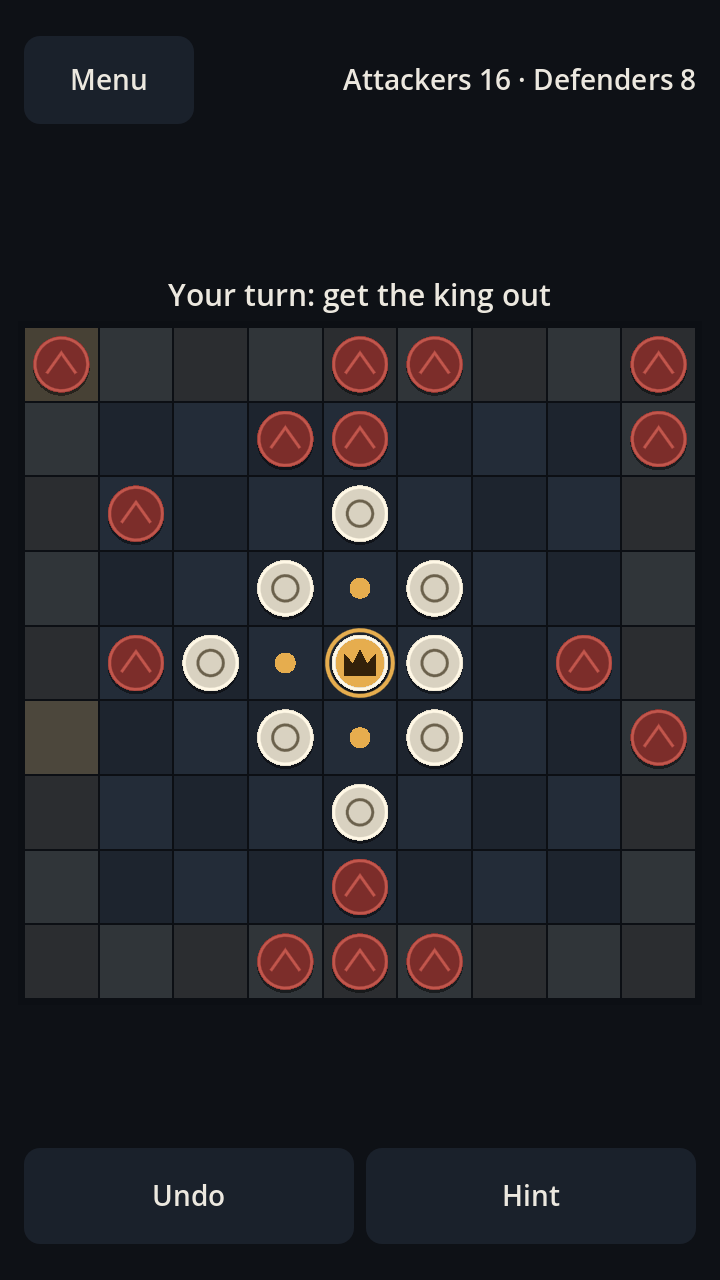
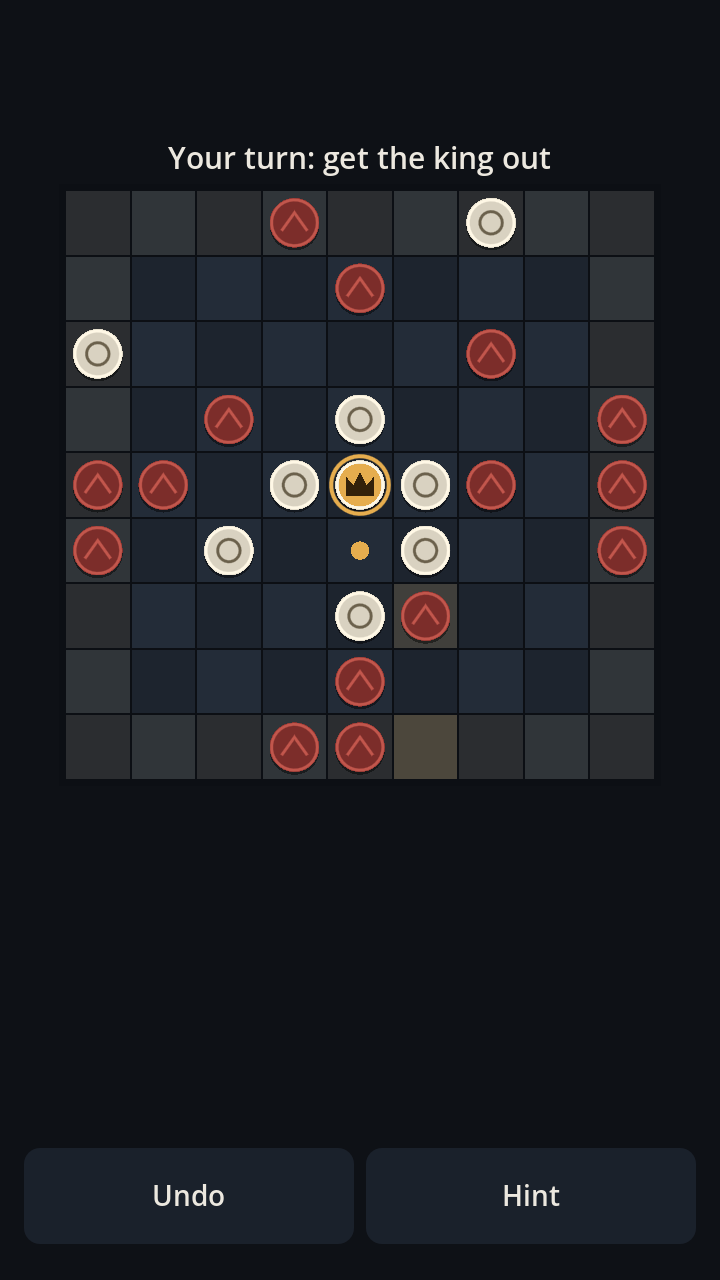
publish tafl v2

diff --git a/tafl/index.html b/tafl/index.html
@@ -111,7 +111,7 @@ body {
 
 		<script src="index.js"></script>
 		<script>
-const GODOT_CONFIG = {"args":[],"canvasResizePolicy":2,"emscriptenPoolSize":8,"ensureCrossOriginIsolationHeaders":true,"executable":"index","experimentalVK":false,"fileSizes":{"index.pck":48672,"index.wasm":39514754},"focusCanvas":true,"gdextensionLibs":[],"godotPoolSize":4};
+const GODOT_CONFIG = {"args":[],"canvasResizePolicy":2,"emscriptenPoolSize":8,"ensureCrossOriginIsolationHeaders":true,"executable":"index","experimentalVK":false,"fileSizes":{"index.pck":48656,"index.wasm":39514754},"focusCanvas":true,"gdextensionLibs":[],"godotPoolSize":4};
 const GODOT_THREADS_ENABLED = false;
 const engine = new Engine(GODOT_CONFIG);
 
